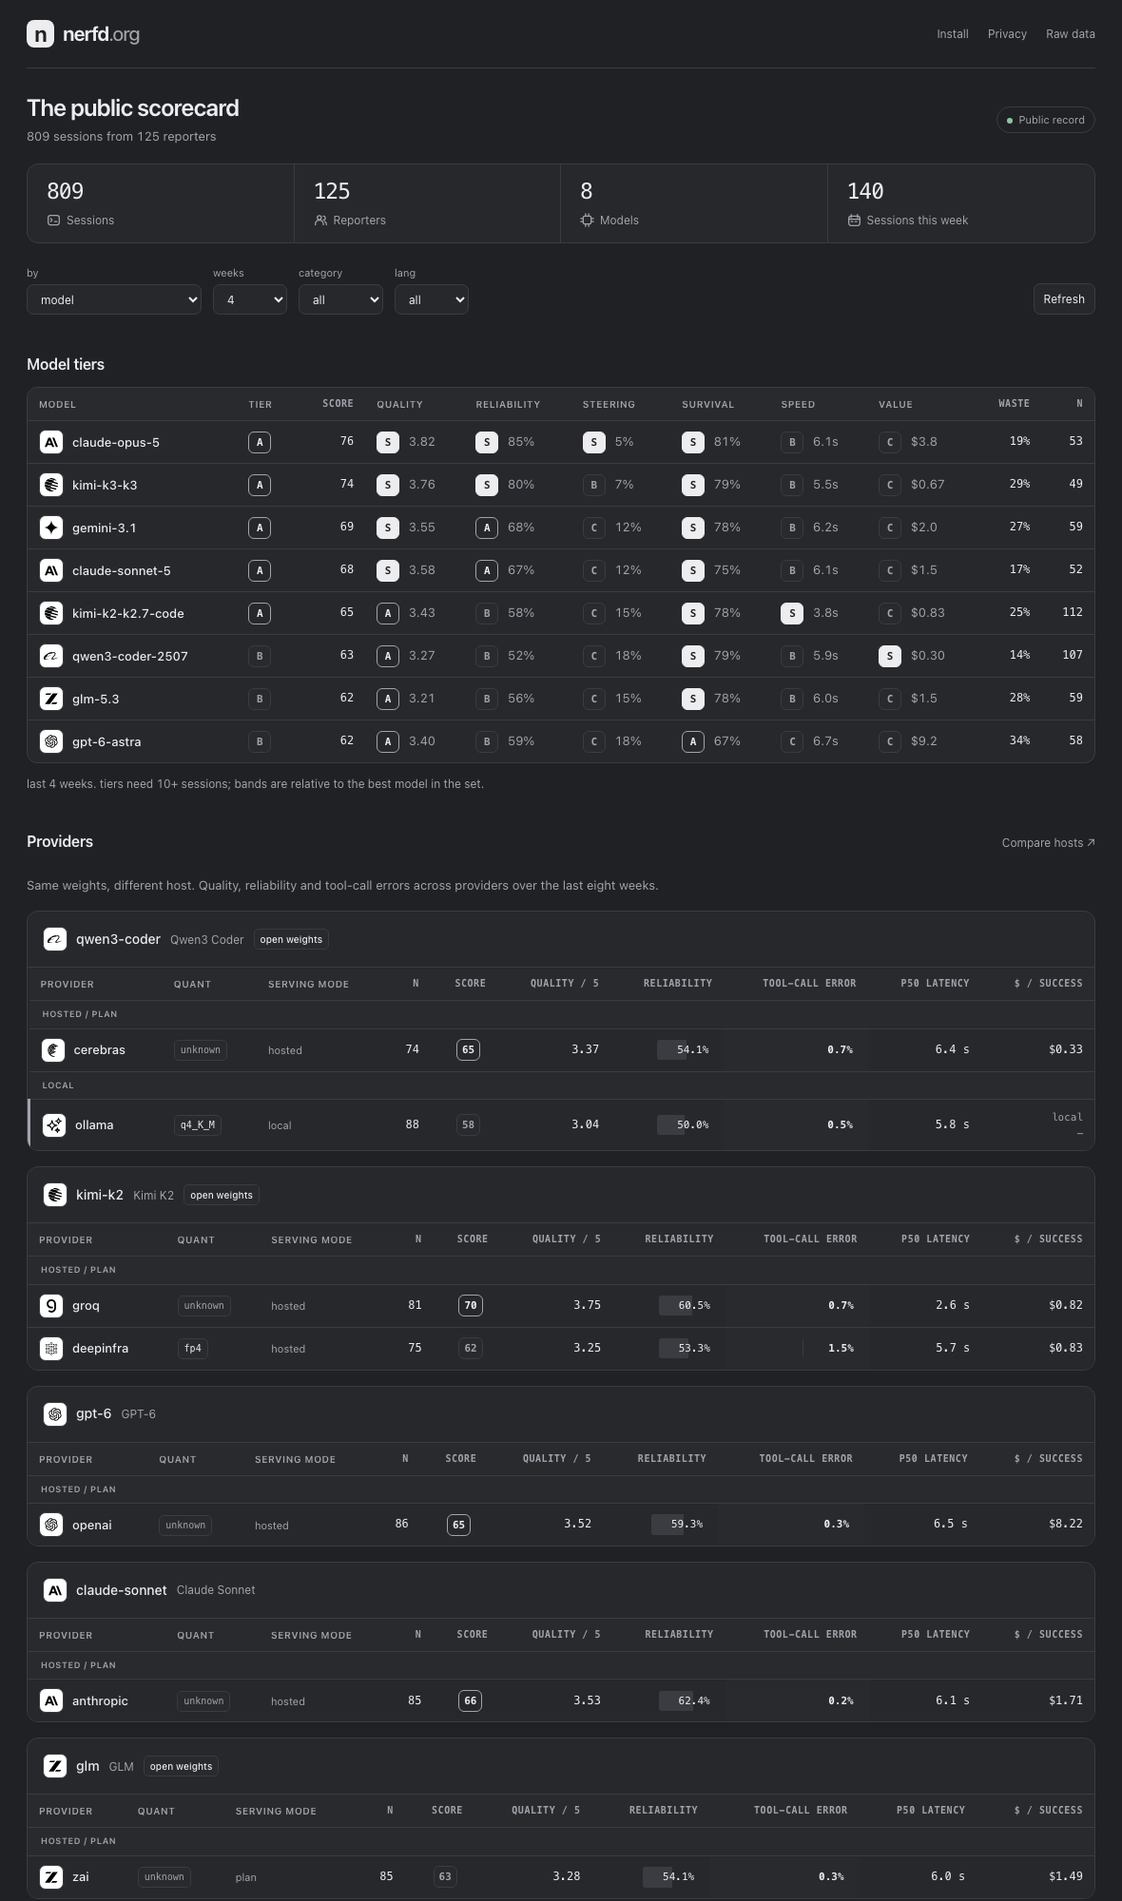
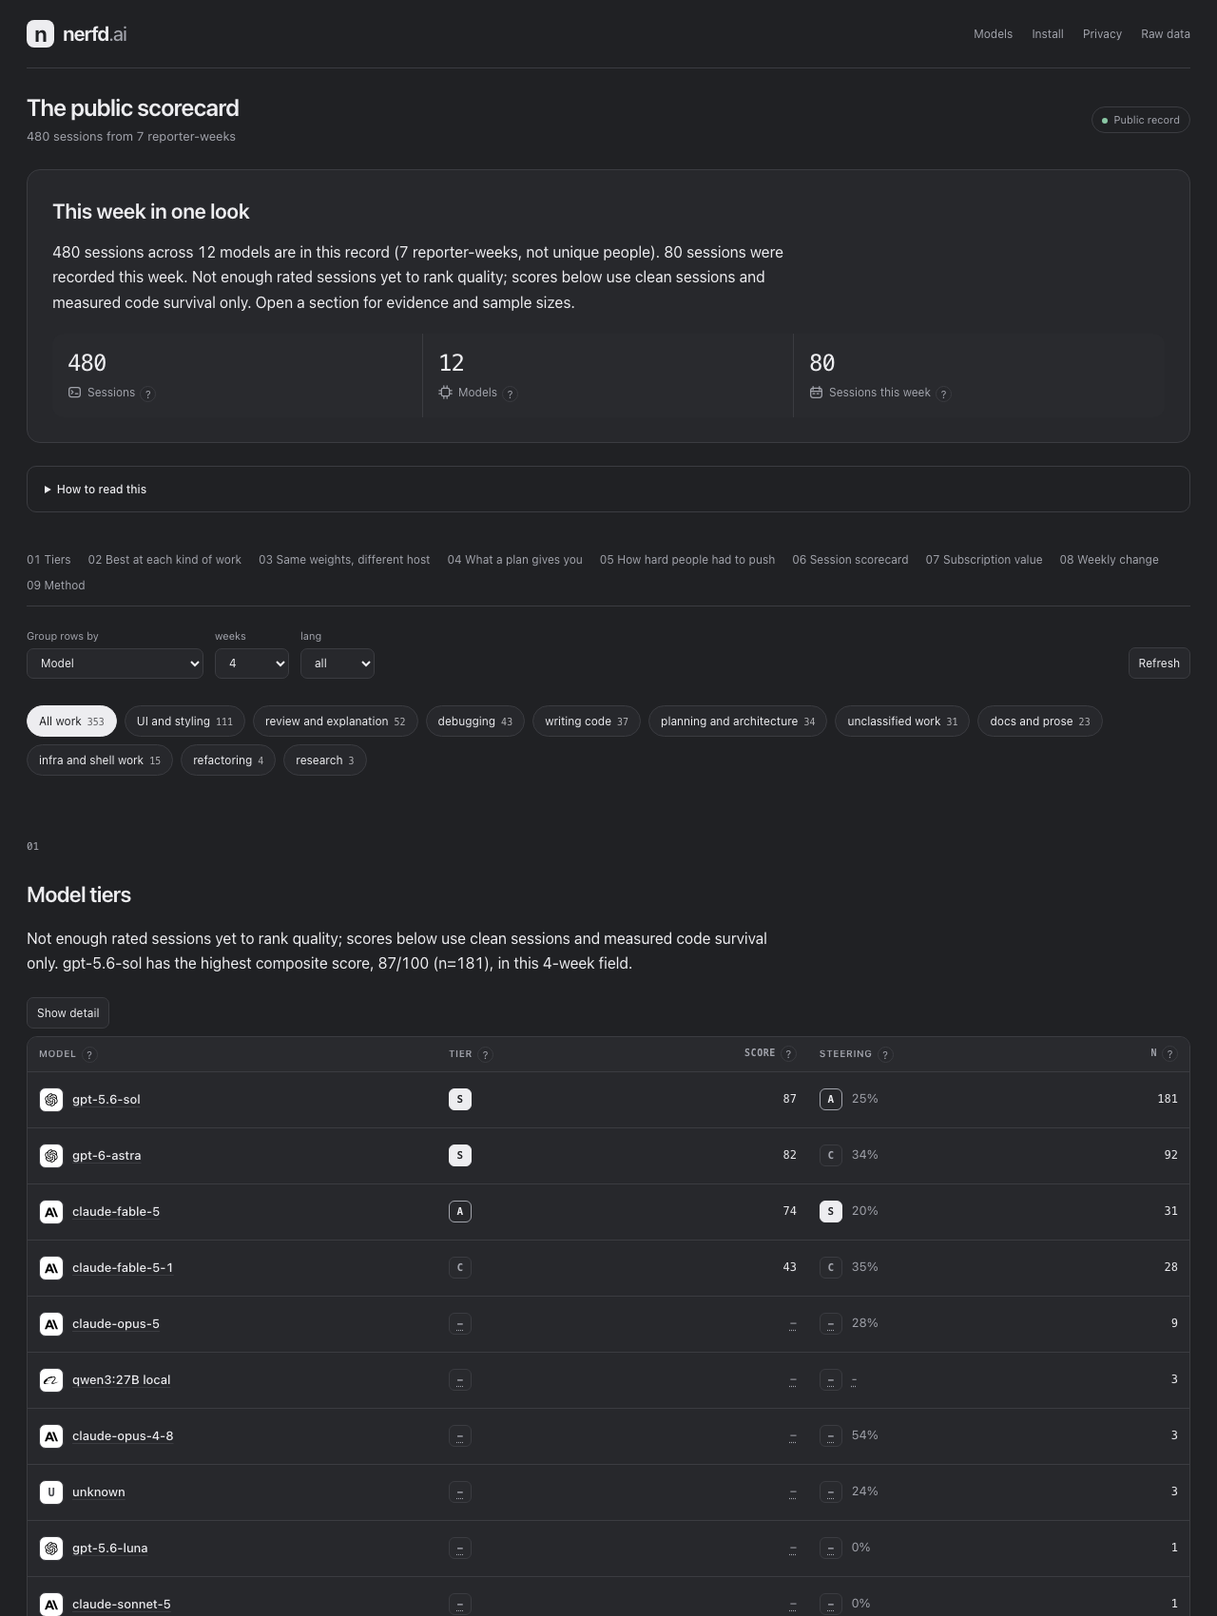
README for open source: what it is, why, what you get, how it works, tools, privacy, docs, self-hosting, roadmap; CONTRIBUTING; fresh screenshots

diff --git a/README.md b/README.md
@@ -1,101 +1,142 @@
 # nerfd
 
-The public record of how AI models actually perform on real work. Captured automatically from Claude Code, Codex, OpenCode, Goose, Gemini CLI, Qwen Code, Kimi Code, Crush, Copilot CLI, Cline and Aider sessions, ranked weekly by outcome, priced by what a good result really costs on your subscription and at API rates — and, because the same open weights are served at different quantisations by different hosts, scored by provider and quantisation as well as by model.
+**The public record of how AI coding models actually perform on real work.**
 
-Live at [nerfd.org](https://nerfd.org): the [board](https://nerfd.org/board), one page per [model](https://nerfd.org/model) with its rank, its standing by kind of work and the week it changed, and the [open data](https://nerfd.org/export.json) (CC BY 4.0). Counts, never conversations; the [privacy page](https://nerfd.org/privacy) shows the exact record. No money from model labs.
+nerfd is a local-first scorecard for the AI coding agents you already use. A one-line install hooks into Claude Code, Codex, OpenCode, Gemini CLI, Qwen Code, Kimi Code, Goose, Crush and Copilot CLI, measures every session on your machine, and tells you which model earned its keep on which kind of work, what your subscription actually bought, and the week a model changed. With sharing on, a redacted record of each session joins the public board at [nerfd.org](https://nerfd.org). Counts, never conversations.
 
-The method and principles, the multi-tool integration plan, the behavioural signals, the plan detector, tokens versus limits, the model view, the personal report and the privacy statement: [docs/METHOD.md](docs/METHOD.md), [docs/INTEGRATIONS.md](docs/INTEGRATIONS.md), [docs/SIGNALS.md](docs/SIGNALS.md), [docs/PLAN-DETECTION.md](docs/PLAN-DETECTION.md), [docs/LIMITS.md](docs/LIMITS.md), [docs/MODEL-VIEW.md](docs/MODEL-VIEW.md), [docs/REPORT.md](docs/REPORT.md), [docs/PRIVACY.md](docs/PRIVACY.md).
+- **Live**: [nerfd.org](https://nerfd.org) · [the board](https://nerfd.org/board) · [one page per model](https://nerfd.org/model) · [what leaves your machine](https://nerfd.org/privacy) · [open data, CC BY 4.0](https://nerfd.org/export.json)
+- **Zero runtime dependencies.** Node 22.13+ runs the TypeScript directly. Small enough to read over a coffee, which is the point.
+- **No money from model labs, ever.** Every evaluator that took lab money ended up ranking its customers.
 
-![landing](docs/landing.png)
+![The nerfd landing page](docs/landing.png)
 
-## Install (users)
+## Why
 
-```
-curl -fsSL https://nerfd.org/install.sh | sh                      # sharing on
-curl -fsSL https://nerfd.org/install.sh | sh -s -- --no-share     # sharing off
-NERFD_SHARE=off sh -c "$(curl -fsSL https://nerfd.org/install.sh)"  # same, for scripted installs
-```
+Nobody knows which model to use for which kind of work this week. Lab benchmarks are static and measure a model through the lab's own harness. Social media is anecdote with no denominator. Model quality genuinely moves: Anthropic has published two postmortems admitting multi-week degradations their own evals did not catch, one of them caused by harness changes rather than weights. The people who can see this are the people doing real work in these terminals every day, and their evidence evaporates into posts.
 
-Needs Node 22.13 or newer. The script downloads the CLI to `~/.nerfd/app`, links `~/.local/bin/nerfd`, installs hooks into every supported tool whose config directory exists, reads your subscription plan off those tools' own config, and turns on autonomous reporting of redacted session records to the host it was downloaded from. It prints exactly what is sent. `nerfd share off` stops it; `nerfd init --remove` takes the hooks out.
+nerfd turns that evidence into a record. Every session becomes a row of counts: model, tool, plan, kind of work, prompts, edits, errors, corrections, interrupts, tokens, latency, and whether the code the session wrote is still there an hour later. The rows are scored the same way for one person and for everyone.
 
-Then:
+## What you get
 
-```
-nerfd sessions                       # what was captured
-nerfd plan                           # your subscription per tool, auto-detected, with what was read to find it
-nerfd plan claude claude-max-20x     # declare one; a declared plan always overrides detection
-nerfd backfill --since 90d           # import the history your tools recorded before nerfd existed
-nerfd rate last 4 kept               # optional two-second rating; inside your tool: /nerfd 4 kept "why"
-nerfd which debug --lang ts          # what to use right now, from your own history
-nerfd cost                           # api-equivalent cost, cost per success, waste, and what your plan bought this month
-nerfd drift                          # week over week per model
-nerfd privacy                        # everything stored locally, and the exact record that would be sent
-nerfd dash                           # local board on http://localhost:8787
-```
+**Your own report**, in one command, from your own sessions: which model ranks where on your work, what a month of your plan bought in successful sessions and API-equivalent value, how many tokens a window holds and how often you hit the wall, where the errors and re-prompting happened.
 
-## Which tools
+**The public board**: tiers on six criteria (quality, reliability, steering, survival, speed, value), the best model at each kind of work, the same open weights compared across hosts and quantisations, what each plan gives you, and how hard people had to push.
 
-`nerfd init` installs into whatever it finds. **Claude Code, Codex, OpenCode, Goose, Gemini CLI, Qwen Code and Kimi Code** are fully live: hooks (or, for OpenCode, a small plugin) give session boundaries, tool calls, errors and interrupts as they happen, and the tool's own transcript or SQLite store gives tokens, cost and the model actually used. **Crush** has exactly one hook — `PreToolUse` — so it runs live on that and fills in the rest from its per-project database. **Copilot CLI** installs hooks as individual files in `~/.copilot/hooks/*.json` and reads its `session-state` event log. **Cline and Aider** emit nothing live and are read from their stores only. Every one of them supports `nerfd backfill [tool] --since 90d`, which imports history that predates the install, so a personal scorecard is populated the minute you install rather than in a fortnight. Anything else reports through `nerfd record`. Per-tool detail, including what each one cannot give: [docs/INTEGRATIONS.md](docs/INTEGRATIONS.md).
+**One page per model**: its rank in the field, its standing inside each kind of work, and a week-by-week score since release with change flags on the week it moved, tested against its own baseline and against the whole field. Change detection, with the numbers, not a verdict.
 
-Any other tool or script:
+![A model page](docs/model.png)
 
-```
-nerfd record --tool aider --model claude-sonnet-5 --cat debug --duration 840 --rating 4 --kept --tokens-in 120000 --tokens-out 9000
+## Quick start
+
+```sh
+curl -fsSL https://nerfd.org/install.sh | sh                      # install, hook every tool found, sharing on
+curl -fsSL https://nerfd.org/install.sh | sh -s -- --no-share     # the same, sharing off
 ```
 
-## What leaves the machine
+The installer downloads the CLI to `~/.nerfd/app`, links `~/.local/bin/nerfd`, installs hooks into every supported tool whose config directory exists, reads your subscription plan off those tools' own config, and prints exactly what would be sent. Then:
 
-Only when sharing is on, only this: model and the model identity derived from it (family, version, size, quantisation, provider, serving mode), effort level, tool and version, plan tier and whether it was declared or detected, ISO week, task category and size, repo language and size and age buckets, duration, counts (prompts, turns, tool calls, edits, files, tests, errors, rate limits, timeouts, interrupts, model switches, tool-call errors, context-limit hits), behavioural signal counts with their detector version, token totals, latency percentiles, subscription window usage where the tool reports it, your rating and kept flag if given, the code survival ratio, and an optional gist link you attach yourself. Never prompts, code, paths, repo names, or notes — and detection's own evidence (which file and field it read) never leaves either. The reporter id is a hash of a random per-install id, rotated weekly. `nerfd show last --public` prints the exact payload, and `nerfd privacy` prints it alongside everything held locally. Full statement: [docs/PRIVACY.md](docs/PRIVACY.md).
+```sh
+nerfd backfill --since 90d      # import the history your tools already wrote; a populated scorecard on day one
+nerfd report                    # your report as one HTML page
+nerfd sessions                  # what was captured
+nerfd rate last 4 kept          # optional two-second rating; inside the tool: /nerfd 4 kept "why"
+nerfd which debug --lang ts     # what to use right now, from your own history
+nerfd cost                      # cost per success, waste, what the plan bought
+nerfd privacy                   # everything stored locally, and the exact record that would be sent
+nerfd share off                 # stop sharing; nerfd init --remove takes the hooks out
+```
 
-## Run the site (operators)
+Any other tool or script reports with `nerfd record --tool <name> --model <id> --cat debug --duration 840 --rating 4 --kept --tokens-in 120000 --tokens-out 9000`.
+
+## How it works
 
 ```
+your tool ──hook JSON──▶ nerfd hook ──▶ ~/.nerfd/local.db ──▶ nerfd report · which · cost · dash
+                                             │
+                                   redact (counts only)
+                                             │
+                                     POST /v1/reports ──▶ the board
+```
+
+1. **Hooks** in each tool give session boundaries, tool calls, errors and interrupts as they happen. The tool's own transcript or store gives tokens, latency and the model actually used.
+2. **At session end**, the conversation is reduced to integers on your machine: corrections, re-prompts, pushback, frustration markers, clarifying questions, edits without a prior read, the kind of work. The text is dropped before the function returns.
+3. **An hour later**, `nerfd check` re-hashes the working tree to measure how much of what the session wrote survived.
+4. **With sharing on**, one small JSON record per session goes to the board. The reporter id is a hash of a random install id, rotated weekly, so sessions cannot be linked across weeks.
+
+Score, published and deliberately simple: `score = 0.55 × rating + 0.30 × survival + 0.15 × clean`, missing parts dropped and weights renormalised, nothing scored under three sessions, no public tier under ten. Tiers are relative to the best model in the field. Drift is a z-score against the trailing four weeks and needs five sessions to flag. The full method: [docs/METHOD.md](docs/METHOD.md).
+
+## Supported tools
+
+| Tool | Live capture | History import | Notes |
+|---|---|---|---|
+| Claude Code | hooks | yes | plus a status-line sampler for subscription windows |
+| Codex | hooks | yes | rollout logs carry window usage |
+| OpenCode | plugin | yes | model, provider and quantisation from the session store |
+| Gemini CLI, Qwen Code | hooks | yes | |
+| Kimi Code | hooks | yes | |
+| Goose | hooks | yes | |
+| Crush | one hook | yes | the rest from its per-project database |
+| Copilot CLI | hooks | yes | |
+| Cline, Aider | none | yes | read from their stores only |
+| anything else | `nerfd record` | | |
+
+Per-tool detail, including what each one cannot give: [docs/INTEGRATIONS.md](docs/INTEGRATIONS.md). Open-weight models are identified by family, version, size, quantisation, provider and serving mode, so a local q4 run and a hosted fp8 endpoint of the same weights are never averaged together: [docs/MODELS.md](docs/MODELS.md).
+
+## Privacy
+
+Only with sharing on, and only this: model identity, effort level, tool and version, plan tier, ISO week, kind and size of work, repo language and size buckets, duration, counts, behavioural signal counts, token totals, latency percentiles, subscription window usage, your rating if you gave one, and the survival ratio. Never prompts, code, paths, repo names or notes. The detector that reads your plan opens one named field per tool, never the keychain, and makes no network call. `nerfd show last --public` prints the exact payload. The whole statement, written for the person who has to approve it: [docs/PRIVACY.md](docs/PRIVACY.md).
+
+## Documentation
+
+| | |
+|---|---|
+| [docs/METHOD.md](docs/METHOD.md) | principles, what is measured, tiers, scoring, architecture |
+| [docs/MODEL-VIEW.md](docs/MODEL-VIEW.md) | the model page, kinds of work, change detection over time |
+| [docs/LIMITS.md](docs/LIMITS.md) | tokens versus limits: window capacity, generosity per plan |
+| [docs/SIGNALS.md](docs/SIGNALS.md) | the behavioural signals and their known false positives |
+| [docs/PLAN-DETECTION.md](docs/PLAN-DETECTION.md) | how the subscription plan is read, and what is never read |
+| [docs/REPORT.md](docs/REPORT.md) | the personal report |
+| [docs/INTEGRATIONS.md](docs/INTEGRATIONS.md) | every tool, what it gives and what it cannot |
+| [docs/PRIVACY.md](docs/PRIVACY.md) | what leaves the machine, and how to stop it |
+
+## Self-hosting
+
+The Node server is the whole public site: landing, board, model pages, privacy page, installer, API and open-data export.
+
+```sh
 pnpm install
-pnpm release                                   # builds dist/nerfd.tgz, which /install.sh downloads
-pnpm server -- --port 8787 --db ./reports.db   # landing at /, board at /board, installer at /install.sh
+pnpm release                                   # builds dist/nerfd.tgz, which /install.sh serves
+pnpm server -- --port 8787 --db ./reports.db
 ```
 
-Behind a proxy, set `x-forwarded-proto` and `x-forwarded-host` so the installer bakes in the public origin, or pass `publicOrigin` to `startServer`.
+Behind a reverse proxy, set `x-forwarded-proto` and `x-forwarded-host` so the installer bakes in the public origin. For a serverless platform, wrap `queryData` and the page renderers in `packages/server/src`; nerfd.org is one such wrapper. Endpoints: `GET /v1/tiers`, `/v1/work`, `/v1/model?id=`, `/v1/stats?by=model,category`, `/v1/providers`, `/v1/friction`, `/v1/limits`, `/v1/plans`, `/v1/drift`, `/v1/meta`, `/v1/founders`, `/export.json`; `POST /v1/reports`.
 
-Endpoints: `GET /` landing, `GET /board`, `GET /privacy`, `GET /install.sh`, `GET /dist/nerfd.tgz`, `GET /v1/tiers`, `GET /v1/plans`, `GET /v1/stats?by=model,category&weeks=8` (also `by=family,provider,quant,serving_mode`), `GET /v1/providers?weeks=8&min=10`, `GET /v1/friction?weeks=8`, `GET /v1/drift`, `GET /v1/meta`, `GET /export.json`, `POST /v1/reports`.
-
-## Layout
+## Repository
 
 ```
-packages/core     types, classifier, stats, aggregation, pricing, tiers, plans, redaction, validation
-packages/cli      ms: hooks, local sqlite, commands, local board
-packages/server   node:http site: landing, board, installer, ingest. same aggregation as the CLI
-scripts/release.ts  builds the install tarball
-docs/             plan and market research
+packages/core     types, classifier, stats, aggregation, pricing, tiers, plans, limits, views, redaction, validation
+packages/cli      the nerfd command: adapters, hooks, local SQLite, report, commands
+packages/server   the site: landing, board, model pages, privacy, installer, ingest. Same aggregation as the CLI
+scripts/          release tarball, price snapshot
+docs/             method and integration docs
 ```
 
-Zero runtime dependencies. Node runs the TypeScript directly; there is no build step beyond the tarball.
-
-## Develop
-
-```
+```sh
 pnpm typecheck
 pnpm test
-NERFD_HOME=/tmp/mshome pnpm nerfd sessions   # isolated data dir
 ```
 
-Hook errors never surface in the host tool; they go to `~/.nerfd/hook.log`. `nerfd doctor` shows the tail. Model list prices live in `packages/core/src/pricing.ts`, subscription plans in `packages/core/src/plans.ts`.
-
-## Hosting
-
-The Node server above is the whole public site: landing, board, model pages, privacy page, installer, API and open-data export. Run it behind any reverse proxy with `x-forwarded-proto` and `x-forwarded-host` set, or on a serverless platform by wrapping `queryData` and the page renderers from `packages/server/src`. The nerfd.org instance is one such wrapper; how it is hosted is not part of this repository.
+Contributions are welcome, and the easiest first ones are an adapter for a tool we do not cover, a behavioural signal, or a fix to the model family table. Read [CONTRIBUTING.md](CONTRIBUTING.md) first: it lists the rules a change cannot break.
 
 ## Roadmap
 
-Public and short. Each item is open to contribution; the method behind them is in [docs/METHOD.md](docs/METHOD.md).
-
-- **Verified reporters**: an opt-in stable identity (GitHub sign-in) that weights higher than a weekly-rotating one, both shown.
+- **Verified reporters**: an opt-in stable identity that weights higher than a weekly-rotating one, both shown.
 - **Rematch**: rerun the last task on a second model and record which diff survived, the within-person paired comparison nobody has.
 - **Attribution**: separate a weights change from a harness change from capacity, keyed on tool version and effort distribution.
 - **Alerts**: subscribe to a model and hear when it moves against its own baseline.
-- **Adapters**: Droid, Kilo Code and Cursor CLI; the current status per tool is in [docs/INTEGRATIONS.md](docs/INTEGRATIONS.md).
+- **Adapters**: Droid, Kilo Code and Cursor CLI.
 - **A hand-labelled sample** to measure the behavioural detectors against, rather than reasoning about them.
 
 ## Licence
 
-MIT. See [LICENSE](LICENSE).
+MIT. See [LICENSE](LICENSE). The public dataset at [nerfd.org/export.json](https://nerfd.org/export.json) is CC BY 4.0.

diff --git a/CONTRIBUTING.md b/CONTRIBUTING.md
@@ -1,0 +1,43 @@
+# Contributing
+
+Thanks for looking. nerfd is small on purpose: zero runtime dependencies, Node runs the TypeScript directly, and every number on the site is computed by code in this repository. That makes it easy to read end to end, and easy to argue with.
+
+## Ground rules
+
+These are the product, so a change that breaks one will not be merged however good the code is. The reasoning is in [docs/METHOD.md](docs/METHOD.md).
+
+- **Counts, never conversations.** Nothing that could identify a person, a project or a prompt leaves the machine. New fields in the public record go through `toReport` in `packages/core/src/redact.ts` and `validateReport` in `packages/core/src/validate.ts`, and every string field needs an allowlist or a reason it cannot carry text. `nerfd show last --public` must keep printing exactly what is sent.
+- **Show n and an interval, never a bare average.** A new metric on a page carries its sample size and, where it is a rate, an interval.
+- **Change detection, not accusation.** Wording on the site and in generated posts says what moved and by how much. It never says why.
+- **Same number everywhere.** The CLI, the personal report, the board and the model pages all call `aggregate` in `packages/core/src/aggregate.ts`. Do not compute a metric twice.
+- **No dependencies.** Not in `packages/*`. Dev dependencies are TypeScript and the type packages only.
+
+## Setup
+
+```sh
+pnpm install
+pnpm typecheck
+pnpm test
+NERFD_HOME=/tmp/nerfd-dev pnpm nerfd sessions    # an isolated data directory
+NERFD_HOME=/tmp/nerfd-dev pnpm nerfd dash        # the board over that directory, at http://localhost:8787
+pnpm server -- --port 8787 --db /tmp/reports.db   # the public site, locally
+```
+
+Node 22.13 or newer. Tests are `node --test`; put new ones next to the existing ones under `packages/*/test/`.
+
+## Good first contributions
+
+- **An adapter for a tool we do not cover.** Read [docs/INTEGRATIONS.md](docs/INTEGRATIONS.md) for the shape (`detect`, `install`, `normalise`, `ledger`, `turns`, `backfill`) and copy the closest existing adapter in `packages/cli/src/adapters/`. Every adapter has a test with a fixture of the tool's own files; commit fixtures with all content replaced, never real transcripts.
+- **A behavioural signal.** See [docs/SIGNALS.md](docs/SIGNALS.md). Signals take turns in and return integers; a new one bumps `SIGNAL_VERSION` and comes with markers, known false positives and a test.
+- **Pricing and family data.** `packages/core/data/model-families.json` is the table that turns a raw model id into family, version, size and release date. Missing or wrong entries are easy fixes with a test in `packages/core/test/modelref.test.ts`.
+- **The method.** If a statistic here is wrong, say so in an issue with the numbers. The formula is public because it is meant to be argued with.
+
+## Pull requests
+
+- One change per PR, with the test that shows it.
+- If it touches what leaves the machine, say so in the description and update [docs/PRIVACY.md](docs/PRIVACY.md).
+- Keep the tone of the pages: numbers, no adjectives, no exclamation marks.
+
+## Reporting a privacy problem
+
+If you believe something identifying can leave a machine, open an issue titled "privacy:" with the field and how it gets there, or email the maintainer via the address on the GitHub profile if you would rather not post it. It will be treated as the most important issue in the queue.
